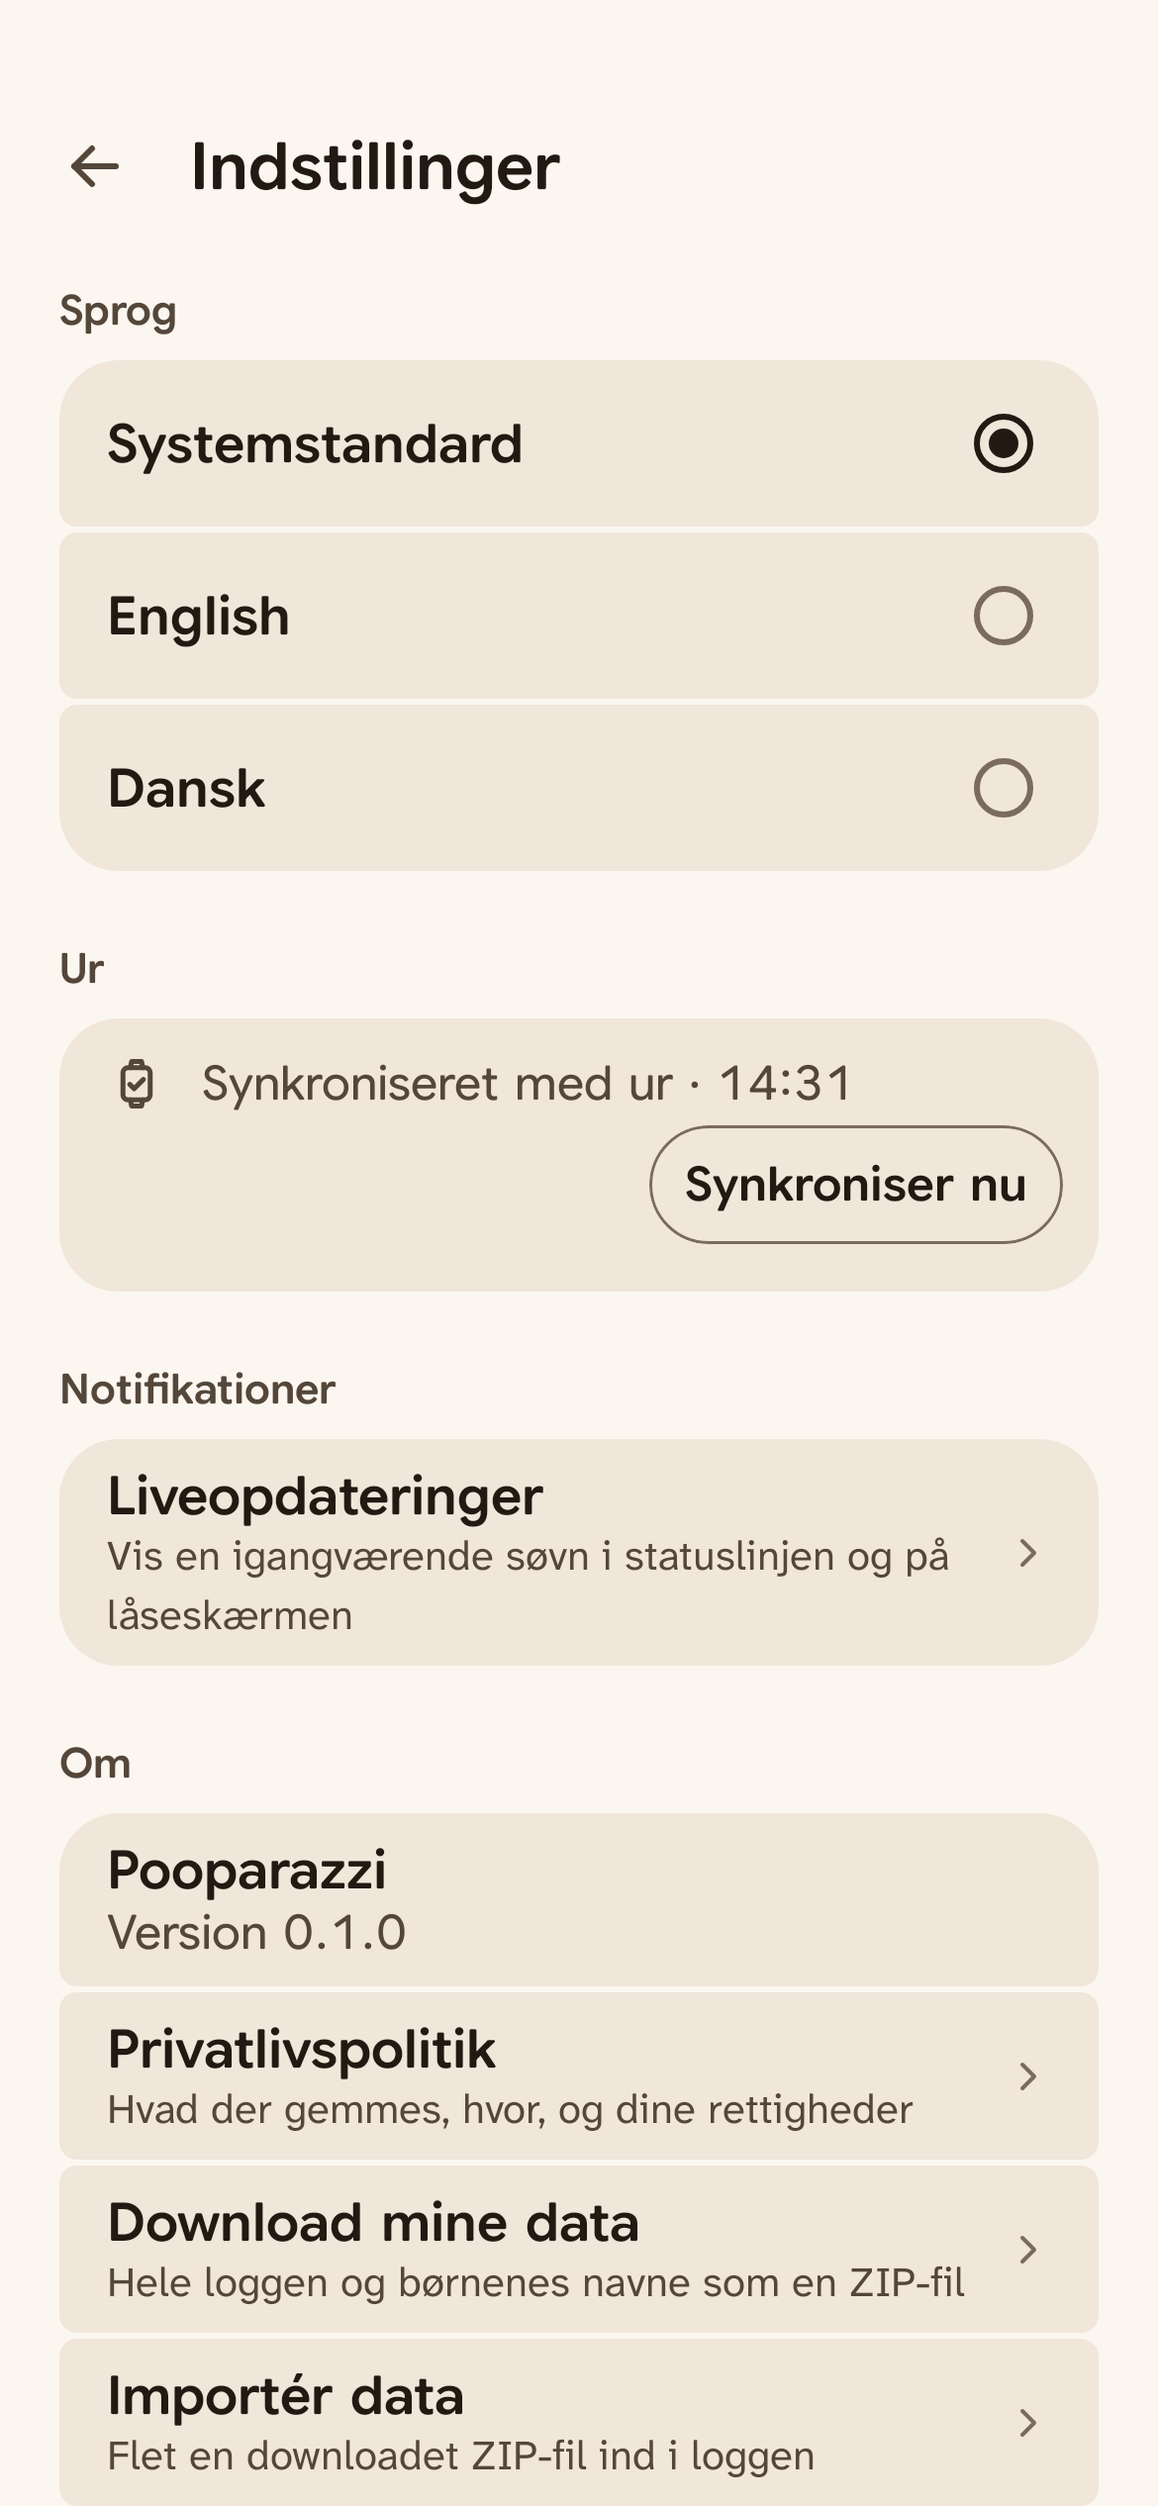
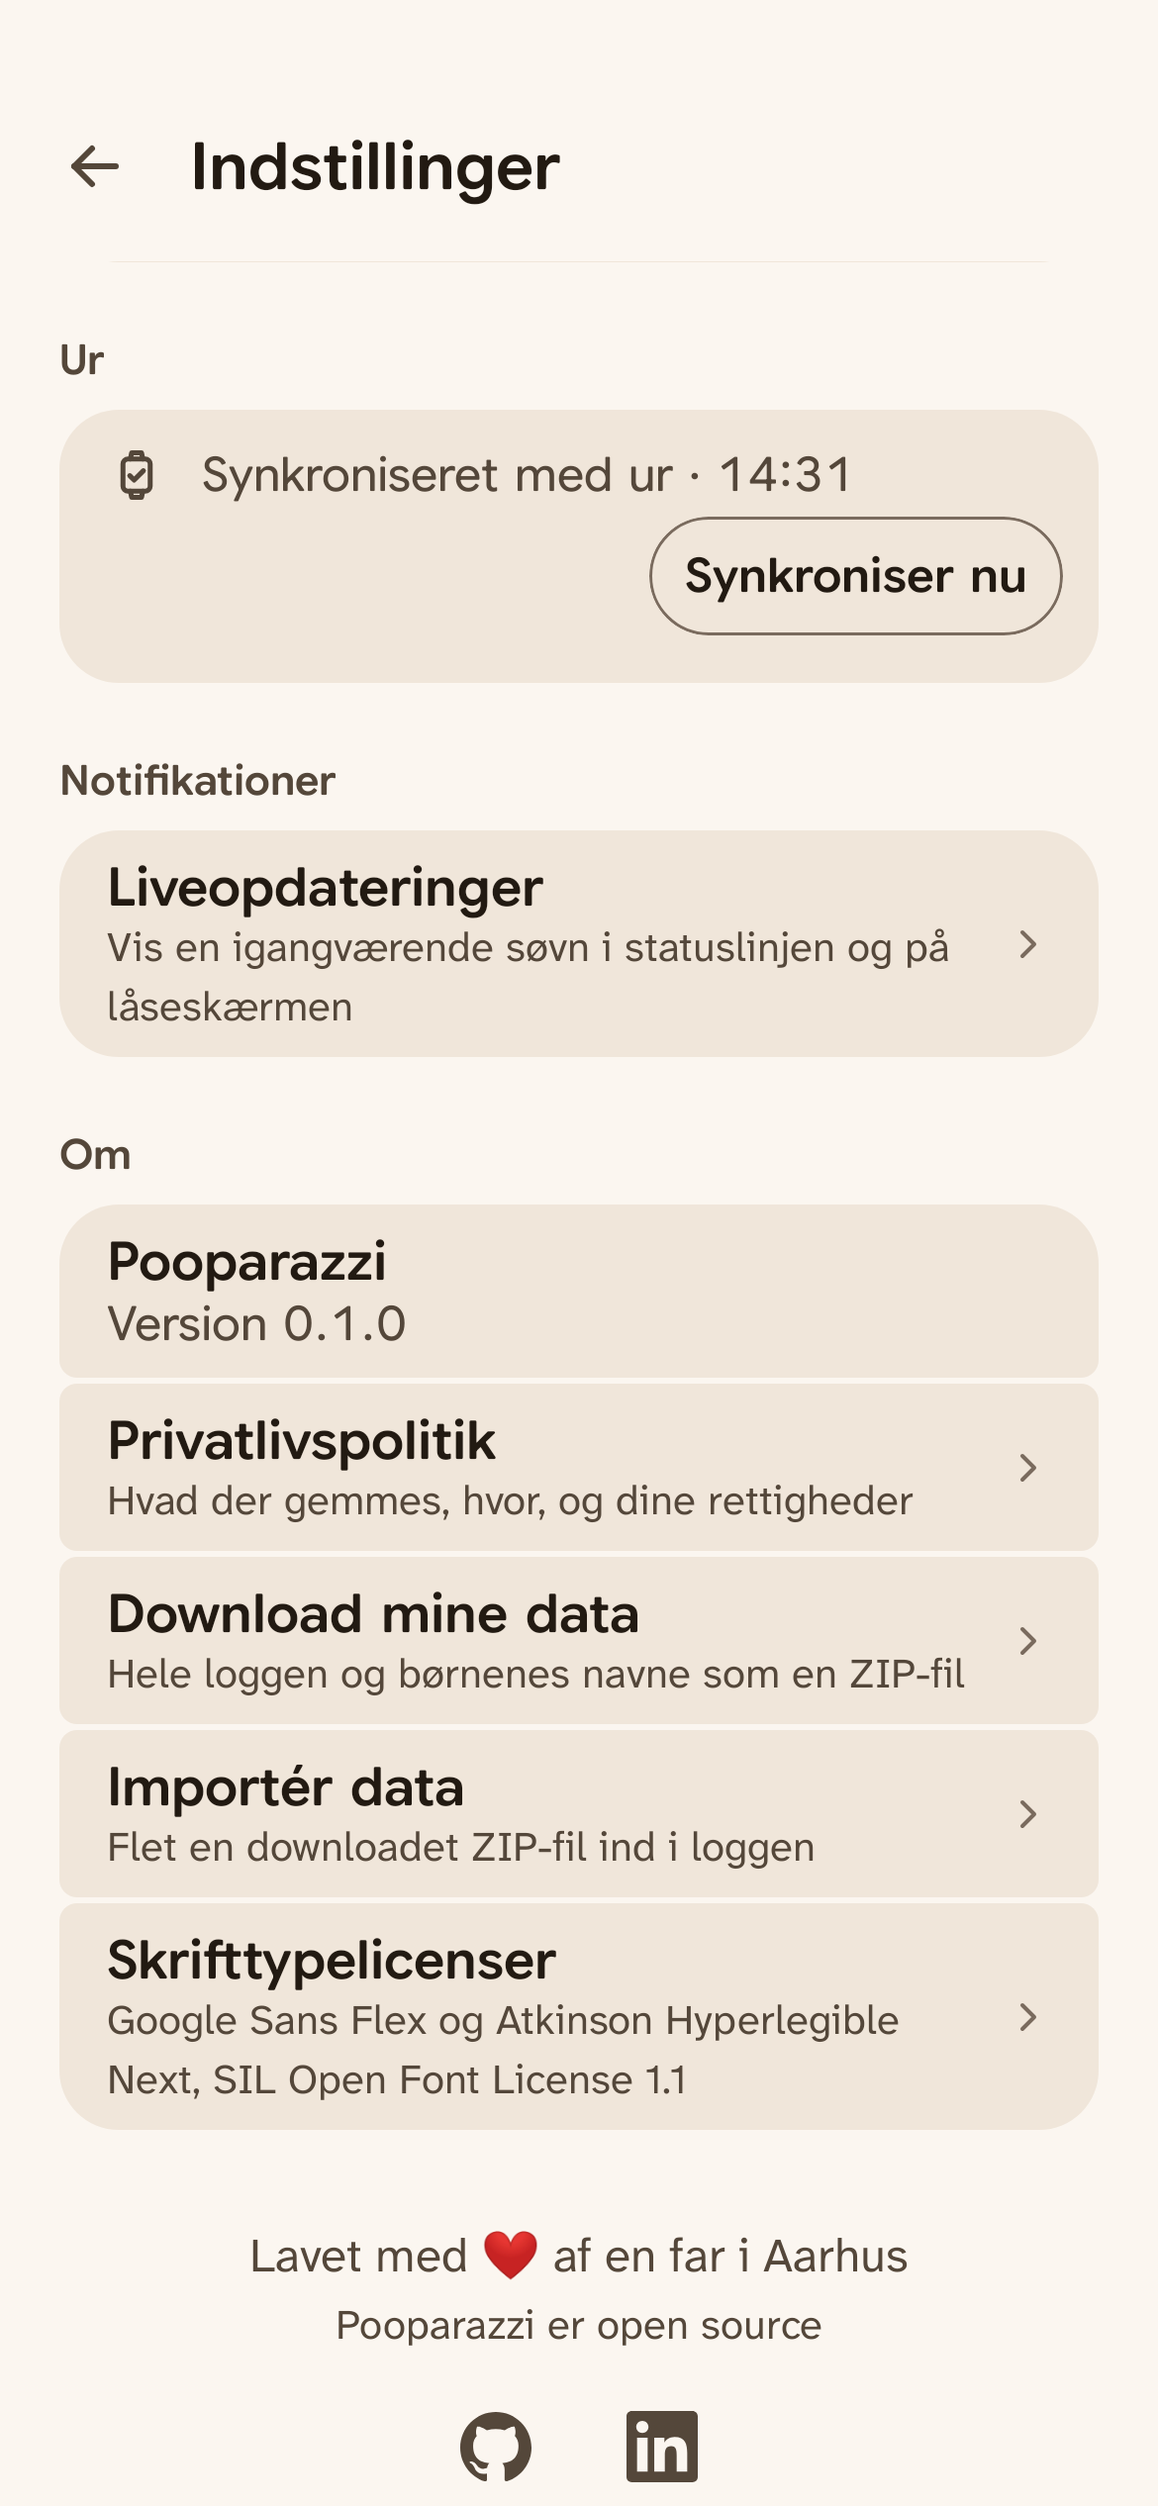
Settings: "Made with ❤ by a father in Aarhus" footer with GitHub and LinkedIn (#47)
* Add a "Made with ❤ in Aarhus" open-source footer to Settings

At the bottom of Settings, under About: "Made with ❤ by a father in
Aarhus, Denmark", "Pooparazzi is open source" and a "View the source
code on GitHub" link to the repository (English and Danish). The
Settings › About screenshot now scrolls to the footer; README and
DESIGN_SPEC describe it.

Claude-Session: https://claude.ai/code/session_01KD7sVj81Kj1tARAZDyvZ8k

* Re-record the screenshots

* Settings footer: GitHub and LinkedIn logo buttons instead of the text link

The footer's "View the source code on GitHub" text button becomes a row
of two pressable logos (48 dp IconButtons, tinted onSurfaceVariant):
GitHub opens the repository, LinkedIn opens the maker's profile. The
logos are Simple Icons paths (CC0). README and DESIGN_SPEC follow.

Claude-Session: https://claude.ai/code/session_01KD7sVj81Kj1tARAZDyvZ8k

* Re-record the screenshots

---------

diff --git a/app/src/main/kotlin/com/ffmathy/pooparazzi/phone/ui/settings/SettingsScreen.kt b/app/src/main/kotlin/com/ffmathy/pooparazzi/phone/ui/settings/SettingsScreen.kt
@@ -22,6 +22,7 @@ import androidx.compose.foundation.layout.heightIn
 import androidx.compose.foundation.layout.only
 import androidx.compose.foundation.layout.padding
 import androidx.compose.foundation.layout.safeDrawing
+import androidx.compose.foundation.layout.size
 import androidx.compose.foundation.layout.width
 import androidx.compose.foundation.layout.windowInsetsPadding
 import androidx.compose.foundation.rememberScrollState
@@ -30,6 +31,7 @@ import androidx.compose.foundation.text.KeyboardActions
 import androidx.compose.foundation.text.KeyboardOptions
 import androidx.compose.foundation.verticalScroll
 import androidx.compose.material3.AlertDialog
+import androidx.compose.material3.Icon
 import androidx.compose.material3.IconButton
 import androidx.compose.material3.MaterialTheme
 import androidx.compose.material3.TextButton
@@ -59,6 +61,7 @@ import androidx.compose.ui.semantics.Role
 import androidx.compose.ui.semantics.heading
 import androidx.compose.ui.semantics.semantics
 import androidx.compose.ui.text.TextStyle
+import androidx.compose.ui.text.style.TextAlign
 import androidx.compose.ui.text.input.ImeAction
 import androidx.compose.ui.text.input.KeyboardCapitalization
 import androidx.compose.ui.tooling.preview.Preview
@@ -139,6 +142,12 @@ fun SettingsRoute(onBack: () -> Unit, onOpenLicences: () -> Unit, onOpenAccount:
             override fun onOpenPrivacy() {
                 viewModel.state.value?.let { runCatching { uriHandler.openUri(it.privacyUrl) } }
             }
+            override fun onOpenSourceCode() {
+                runCatching { uriHandler.openUri(SOURCE_CODE_URL) }
+            }
+            override fun onOpenLinkedIn() {
+                runCatching { uriHandler.openUri(LINKEDIN_URL) }
+            }
             override fun onExport() = exporter.launch(LogExportFile.name(LocalDate.now()))
             override fun onImport() = importer.launch(LogExportFile.IMPORT_TYPES)
         }
@@ -161,8 +170,9 @@ fun SettingsRoute(onBack: () -> Unit, onOpenLicences: () -> Unit, onOpenAccount:
  * Settings (DESIGN_SPEC §3.3.5; not drawn in the mockups, so it follows their language): the account and backup
  * (BABIES_AND_BACKUP §3.2), the babies, Appearance
  * (Auto · Night · Day), Language (System default · English · Dansk), watch sync with a retry, Notifications (the link
- * to the system's Live Update setting, §10.5) and About (version, font licences). Section headings are labelMedium;
- * grouped rows use the History list's r 20 / r 6 corners.
+ * to the system's Live Update setting, §10.5) and About (version, font licences), and at the bottom a footer: "Made with
+ * ❤ by a father in Aarhus, Denmark", that Pooparazzi is open source, and GitHub and LinkedIn logo buttons. Section
+ * headings are labelMedium; grouped rows use the History list's r 20 / r 6 corners.
  *
  * @param notifications what the Notifications row offers; the route reads it from the system.
  */
@@ -227,6 +237,7 @@ fun SettingsScreen(
             Section(stringResource(R.string.settings_section_about)) {
                 AboutGroup(state.versionName, actions)
             }
+            MadeByFooter(actions)
         }
     }
 }
@@ -543,6 +554,49 @@ private fun AboutGroup(versionName: String, actions: SettingsActions) {
         }
         GroupRow(first = false, last = true) {
             LinkRow(stringResource(R.string.settings_font_licences), stringResource(R.string.settings_font_licences_summary), actions::onOpenLicences)
+        }
+    }
+}
+
+/** Where Pooparazzi's source code is read. */
+internal const val SOURCE_CODE_URL = "https://github.com/ffMathy/pooparazzi"
+
+/** The maker's LinkedIn profile. */
+internal const val LINKEDIN_URL = "https://www.linkedin.com/in/mathiaslorenzen/"
+
+/**
+ * The end of Settings, centred under About: "Made with ❤ by a father in Aarhus, Denmark", "Pooparazzi is open source"
+ * and two logo buttons (48 dp targets): GitHub opens the source code, LinkedIn the maker's profile.
+ */
+@Composable
+private fun MadeByFooter(actions: SettingsActions) {
+    val colors = MaterialTheme.colorScheme
+    Column(
+        Modifier
+            .fillMaxWidth()
+            .padding(top = 32.dp),
+        horizontalAlignment = Alignment.CenterHorizontally,
+    ) {
+        Text(
+            stringResource(R.string.settings_made_by),
+            style = MaterialTheme.typography.bodyMedium,
+            color = colors.onSurfaceVariant,
+            textAlign = TextAlign.Center,
+        )
+        Text(
+            stringResource(R.string.settings_open_source),
+            style = MaterialTheme.typography.bodySmall,
+            color = colors.onSurfaceVariant,
+            textAlign = TextAlign.Center,
+            modifier = Modifier.padding(top = 4.dp),
+        )
+        Row(Modifier.padding(top = 8.dp), horizontalArrangement = Arrangement.spacedBy(8.dp)) {
+            IconButton(onClick = actions::onOpenSourceCode) {
+                Icon(BrandIcons.gitHub, stringResource(R.string.cd_source_code), Modifier.size(24.dp), tint = colors.onSurfaceVariant)
+            }
+            IconButton(onClick = actions::onOpenLinkedIn) {
+                Icon(BrandIcons.linkedIn, stringResource(R.string.cd_linkedin), Modifier.size(24.dp), tint = colors.onSurfaceVariant)
+            }
         }
     }
 }

diff --git a/app/src/main/kotlin/com/ffmathy/pooparazzi/phone/ui/settings/BrandIcons.kt b/app/src/main/kotlin/com/ffmathy/pooparazzi/phone/ui/settings/BrandIcons.kt
@@ -1,0 +1,33 @@
+package com.ffmathy.pooparazzi.phone.ui.settings
+
+import androidx.compose.ui.graphics.Color
+import androidx.compose.ui.graphics.SolidColor
+import androidx.compose.ui.graphics.vector.ImageVector
+import androidx.compose.ui.graphics.vector.addPathNodes
+import androidx.compose.ui.unit.dp
+
+/**
+ * The GitHub and LinkedIn logos for Settings' footer, filled in a 24 × 24 viewport and drawn in black so a tint
+ * recolours them. The path data is from Simple Icons (https://simpleicons.org, CC0 1.0): GitHub from 15.0.0,
+ * LinkedIn from 9.21.0 (later releases left it out at LinkedIn's request).
+ */
+internal object BrandIcons {
+    val gitHub: ImageVector by lazy {
+        logo(
+            "gitHub",
+            "M12 .297c-6.63 0-12 5.373-12 12 0 5.303 3.438 9.8 8.205 11.385.6.113.82-.258.82-.577 0-.285-.01-1.04-.015-2.04-3.338.724-4.042-1.61-4.042-1.61C4.422 18.07 3.633 17.7 3.633 17.7c-1.087-.744.084-.729.084-.729 1.205.084 1.838 1.236 1.838 1.236 1.07 1.835 2.809 1.305 3.495.998.108-.776.417-1.305.76-1.605-2.665-.3-5.466-1.332-5.466-5.93 0-1.31.465-2.38 1.235-3.22-.135-.303-.54-1.523.105-3.176 0 0 1.005-.322 3.3 1.23.96-.267 1.98-.399 3-.405 1.02.006 2.04.138 3 .405 2.28-1.552 3.285-1.23 3.285-1.23.645 1.653.24 2.873.12 3.176.765.84 1.23 1.91 1.23 3.22 0 4.61-2.805 5.625-5.475 5.92.42.36.81 1.096.81 2.22 0 1.606-.015 2.896-.015 3.286 0 .315.21.69.825.57C20.565 22.092 24 17.592 24 12.297c0-6.627-5.373-12-12-12",
+        )
+    }
+
+    val linkedIn: ImageVector by lazy {
+        logo(
+            "linkedIn",
+            "M20.447 20.452h-3.554v-5.569c0-1.328-.027-3.037-1.852-3.037-1.853 0-2.136 1.445-2.136 2.939v5.667H9.351V9h3.414v1.561h.046c.477-.9 1.637-1.85 3.37-1.85 3.601 0 4.267 2.37 4.267 5.455v6.286zM5.337 7.433c-1.144 0-2.063-.926-2.063-2.065 0-1.138.92-2.063 2.063-2.063 1.14 0 2.064.925 2.064 2.063 0 1.139-.925 2.065-2.064 2.065zm1.782 13.019H3.555V9h3.564v11.452zM22.225 0H1.771C.792 0 0 .774 0 1.729v20.542C0 23.227.792 24 1.771 24h20.451C23.2 24 24 23.227 24 22.271V1.729C24 .774 23.2 0 22.222 0h.003z",
+        )
+    }
+
+    private fun logo(name: String, pathData: String): ImageVector =
+        ImageVector.Builder(name, defaultWidth = 24.dp, defaultHeight = 24.dp, viewportWidth = 24f, viewportHeight = 24f)
+            .addPath(addPathNodes(pathData), fill = SolidColor(Color.Black))
+            .build()
+}

diff --git a/app/src/test/kotlin/com/ffmathy/pooparazzi/phone/HistoryEditSettingsScreenshots.kt b/app/src/test/kotlin/com/ffmathy/pooparazzi/phone/HistoryEditSettingsScreenshots.kt
@@ -7,7 +7,7 @@ import androidx.compose.foundation.layout.WindowInsets
 import androidx.compose.runtime.Composable
 import androidx.compose.ui.test.junit4.v2.createComposeRule
 import androidx.compose.ui.test.onNodeWithTag
-import androidx.compose.ui.test.onNodeWithText
+import androidx.compose.ui.test.onNodeWithContentDescription
 import androidx.compose.ui.test.onRoot
 import androidx.compose.ui.semantics.SemanticsActions
 import androidx.compose.ui.semantics.getOrNull
@@ -78,13 +78,16 @@ abstract class HistoryEditSettingsScreenshots(private val language: String) {
         SettingsScreen(SettingsSamples.state(), SettingsActions.None, windowInsets = ReferenceInsets)
     }
 
-    /** Settings › About scrolled into view: the privacy policy, "Download my data" and "Import data" (BABIES_AND_BACKUP §3.2). */
+    /**
+     * Settings scrolled to the bottom: About with the privacy policy, "Download my data" and "Import data"
+     * (BABIES_AND_BACKUP §3.2), and the "Made with ❤" footer with the GitHub and LinkedIn logo buttons.
+     */
     @Test fun settingsAbout() {
         compose.setContent {
             NightLightTheme(night = false) { SettingsScreen(SettingsSamples.state(), SettingsActions.None, windowInsets = ReferenceInsets) }
         }
-        val importRow = ApplicationProvider.getApplicationContext<Application>().getString(R.string.settings_import)
-        compose.onNodeWithText(importRow).performScrollTo()
+        val linkedIn = ApplicationProvider.getApplicationContext<Application>().getString(R.string.cd_linkedin)
+        compose.onNodeWithContentDescription(linkedIn).performScrollTo()
         compose.onRoot().captureRoboImage(path("43-settings-about", tour = true))
     }
 

diff --git a/app/src/main/kotlin/com/ffmathy/pooparazzi/phone/ui/settings/SettingsViewModel.kt b/app/src/main/kotlin/com/ffmathy/pooparazzi/phone/ui/settings/SettingsViewModel.kt
@@ -127,6 +127,12 @@ interface SettingsActions {
     /** Settings › About › Privacy policy: opens it in the browser. */
     fun onOpenPrivacy() {}
 
+    /** Settings' footer › the GitHub logo: opens the repository in the browser. */
+    fun onOpenSourceCode() {}
+
+    /** Settings' footer › the LinkedIn logo: opens the maker's profile in the browser. */
+    fun onOpenLinkedIn() {}
+
     /** Settings › About › "Download my data": asks where to save the ZIP file, then writes it ([SettingsViewModel.export]). */
     fun onExport() {}
 

diff --git a/README.md b/README.md
@@ -29,6 +29,7 @@ Only the time is ever required: the feed type, the breast side, pee/poop and the
   - Phone: two **Glance widgets** (a 4×2 log widget and a 3×1 quick widget, both with Feed, Diaper and Sleep; Feed and Diaper open the same sheets as in the app, the sleep toggle works in place), the 4×2 also on the **cover screen of Samsung flip phones**, and an **ongoing notification** for a running sleep (promoted to a Live Update where Android supports it) showing how long it has run, the last feed and diaper, and today's counts. "Woke up" on it leaves a notification with −5m / −10m / −15m to move the wake-up time.
   - Watch: a **Tile** (Feed and Diaper open the watch app's own screens, the sleep toggle works in place), four **complications** (since last feed, last diaper, asleep/awake, sleep and last feed) and an **Ongoing Activity** while a sleep runs.
 - **Night and Day themes**: a dim, warm Night theme for the dark hours and a Day theme, chosen automatically (or fixed in Settings). Large targets, TalkBack descriptions in full words ("2 hours 10 minutes ago"), large-font and small-watch layouts.
+- **Open source**: made with ❤ by a father in Aarhus, Denmark. The bottom of Settings says so, with a GitHub logo that opens this repository and a LinkedIn logo that opens the maker's profile.
 - **English and Danish**, with an in-app language choice (Settings › Language) that the widgets, notifications and the watch follow.
 
 ## Screenshots
@@ -91,7 +92,7 @@ All screenshots are rendered by the Roborazzi screenshot tests under Robolectric
 
 | Consent before the first upload | Removing a member | A deletion link asks again | Settings, About |
 |:---:|:---:|:---:|:---:|
-| <img src="docs/screenshots/en/phone-consent.png" width="200" alt="Back up to Google Firebase? What is uploaded, who sees it, where, and changing your mind; I agree and Not now, sign out"> | <img src="docs/screenshots/en/phone-family-remove.png" width="200" alt="Remove partner@example.com? They'll stop seeing the family's log from now on; what's already on their phone stays there"> | <img src="docs/screenshots/en/phone-account-delete-link.png" width="200" alt="Delete account? This link deletes your account. Tap Delete to go ahead; Cancel and Delete"> | <img src="docs/screenshots/en/phone-settings-about.png" width="200" alt="Settings, About: the version, Privacy policy, Download my data, Import data and Font licences"> |
+| <img src="docs/screenshots/en/phone-consent.png" width="200" alt="Back up to Google Firebase? What is uploaded, who sees it, where, and changing your mind; I agree and Not now, sign out"> | <img src="docs/screenshots/en/phone-family-remove.png" width="200" alt="Remove partner@example.com? They'll stop seeing the family's log from now on; what's already on their phone stays there"> | <img src="docs/screenshots/en/phone-account-delete-link.png" width="200" alt="Delete account? This link deletes your account. Tap Delete to go ahead; Cancel and Delete"> | <img src="docs/screenshots/en/phone-settings-about.png" width="200" alt="Settings, About: the version, Privacy policy, Download my data, Import data and Font licences, then the footer: Made with ❤ by a father in Aarhus, Denmark, Pooparazzi is open source, and GitHub and LinkedIn logo buttons"> |
 
 ### Watch
 

diff --git a/docs/design/DESIGN_SPEC.md b/docs/design/DESIGN_SPEC.md
@@ -425,6 +425,7 @@ Settings referenced by the design (screen layout not drawn; Appendix B):
 - Link to the system promoted-notifications setting (§10.5).
 - "Day starts at" (default 00:00; pending open question 4).
 - With the optional account (BABIES_AND_BACKUP §3): Account first, then **Family** while signed in (the members, "Invite someone", "Leave family", "Remove" for the family's creator; §3.4), and a **Privacy policy** row and a **Download my data** row (the log and the babies' names as a ZIP file of JSON files, BABIES_AND_BACKUP §3.2) and an **Import data** row (merges such a file into the log) in About.
+- At the very bottom, under About, a centred footer: "Made with ❤ by a father in Aarhus, Denmark" (Danish: "Lavet med ❤ af en far i Aarhus"), "Pooparazzi is open source", and a row of two logo buttons (48 dp targets, tinted onSurfaceVariant): GitHub opens the repository and LinkedIn the maker's profile, in the browser.
 - **Babies** (BABIES_AND_BACKUP §2.4): a name field per baby, "Add a baby", and with two or more babies a remove button (`delete` icon) at the end of each field that asks "Remove <label>?" before it removes the baby and deletes its log.
 - The first-run **Welcome** ("No account needed", BABIES_AND_BACKUP §3.1) shows two equal cards: "Only on this phone" first, with "You can switch to cloud backup at any time in Settings › Account" and a filled "Continue without an account", then "Back up to the cloud" with the sign-in choices.
 - After signing in, a full-screen **consent** ("Back up to Google Firebase?": what is uploaded, who sees it, where, how to change your mind; "I agree" filled, "Not now, sign out" as text; BABIES_AND_BACKUP §3.6) comes before anything else until the account has agreed on the phone; it is laid out like the Welcome.
